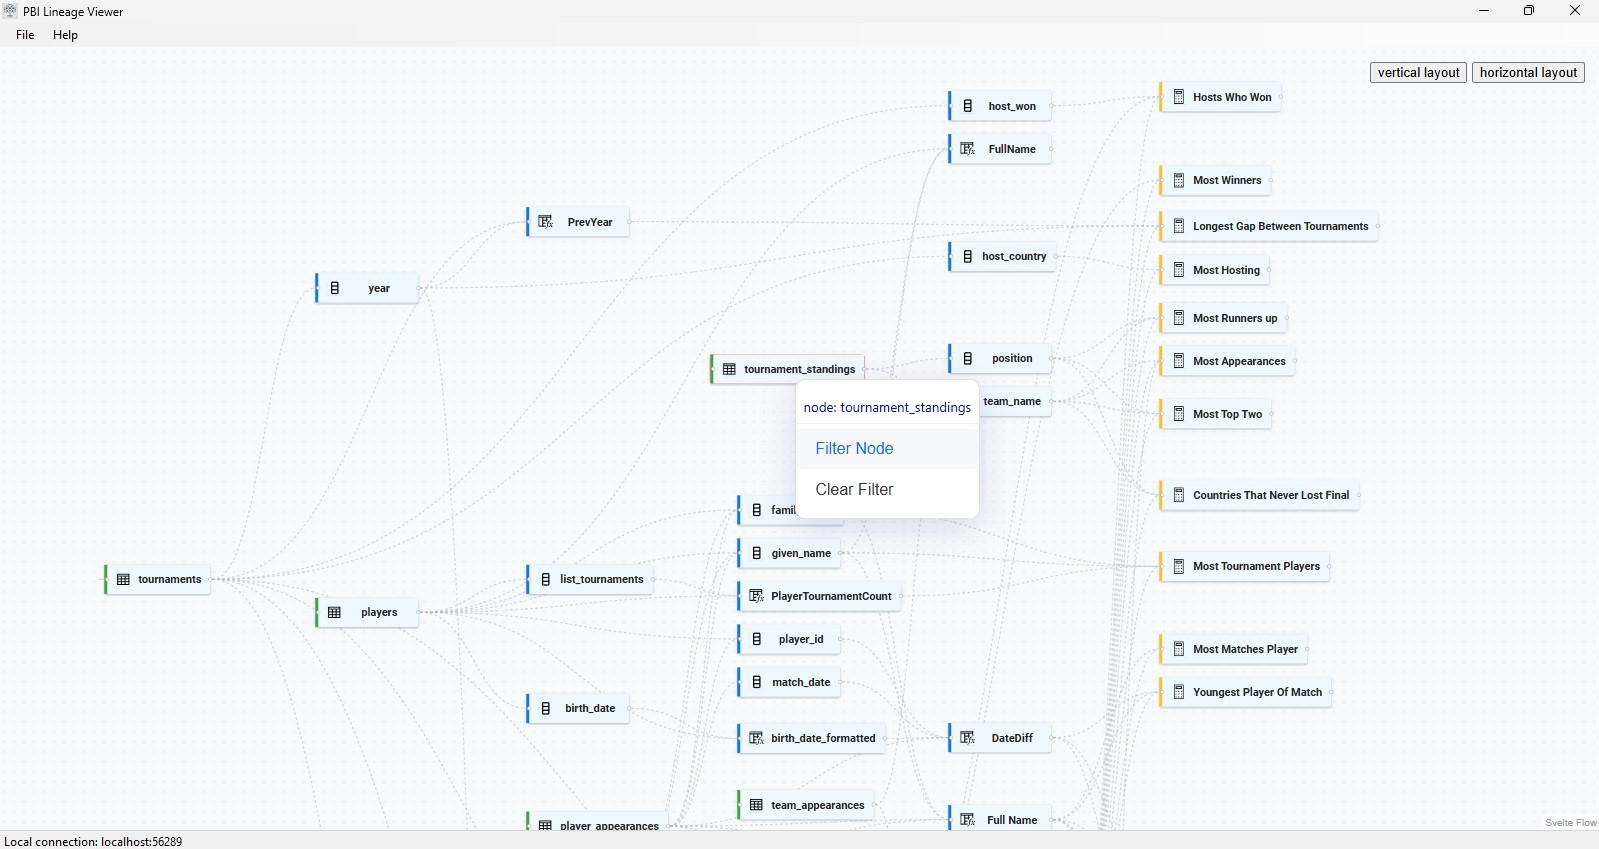
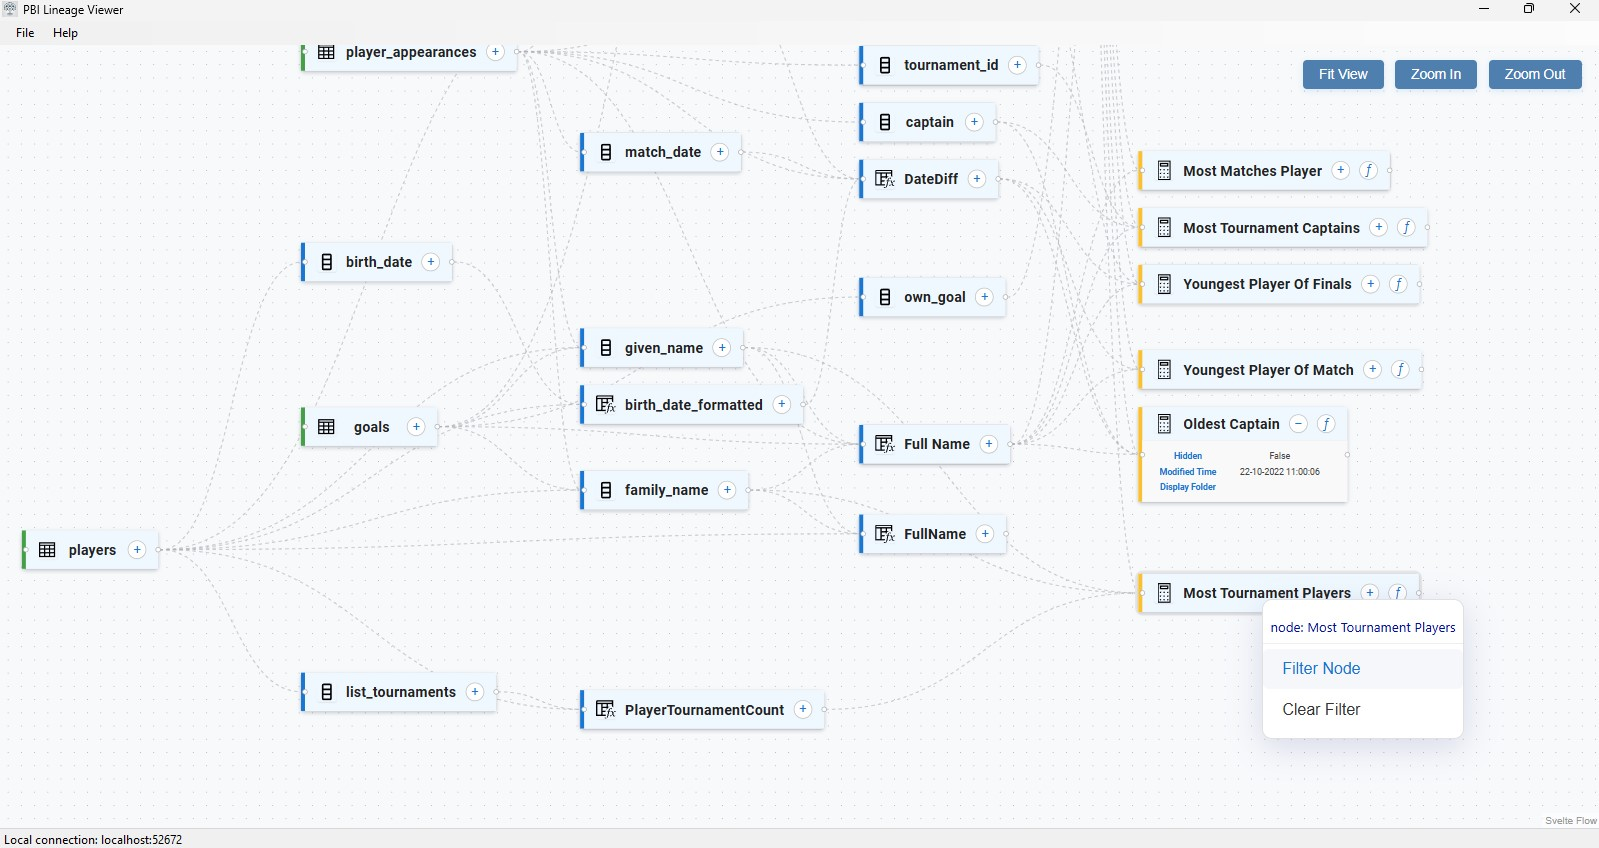
Updated button style and modified Preview Image

diff --git a/Utils for PBI/FrontendWeb/pbi_lineage_viewer_svelteflow/src/components/Flow.svelte b/Utils for PBI/FrontendWeb/pbi_lineage_viewer_svelteflow/src/components/Flow.svelte
@@ -267,9 +267,9 @@
     connectionLineType={ConnectionLineType.SmoothStep}
   >
     <Panel position="top-right">
-      <button onclick={fitView}>Fit View</button>
-      <button onclick={() => zoom("In")}>Zoom In</button>
-      <button onclick={() => zoom("Out")}>Zoom Out</button>
+      <button class="button-mui" onclick={fitView}>Fit View</button>
+      <button class="button-mui" onclick={() => zoom("In")}>Zoom In</button>
+      <button class="button-mui" onclick={() => zoom("Out")}>Zoom Out</button>
     </Panel>
     <!--<DownloadLineage/>-->
     <Background />
@@ -291,3 +291,24 @@
     <ModalBox modalData={modalData} closeModal={closeShowBox}/>
   {/if}
 </div>
+<style>
+  .button-mui {
+  background: #4f7faf;
+  color: #fff;
+  border: none;
+  border-radius: 4px;
+  padding: 0.5em 1.2em;
+  font-size: 0.85em;
+  font-family: inherit;
+  cursor: pointer;
+  margin: 0 0.25em;
+  box-shadow: 0 2px 6px #1976d222;
+  transition: background 0.15s, box-shadow 0.15s;
+}
+.button-mui:hover,
+.button-mui:focus {
+  background: #1565c0;
+  box-shadow: 0 4px 12px #1976d244;
+  outline: none;
+}
+</style>
